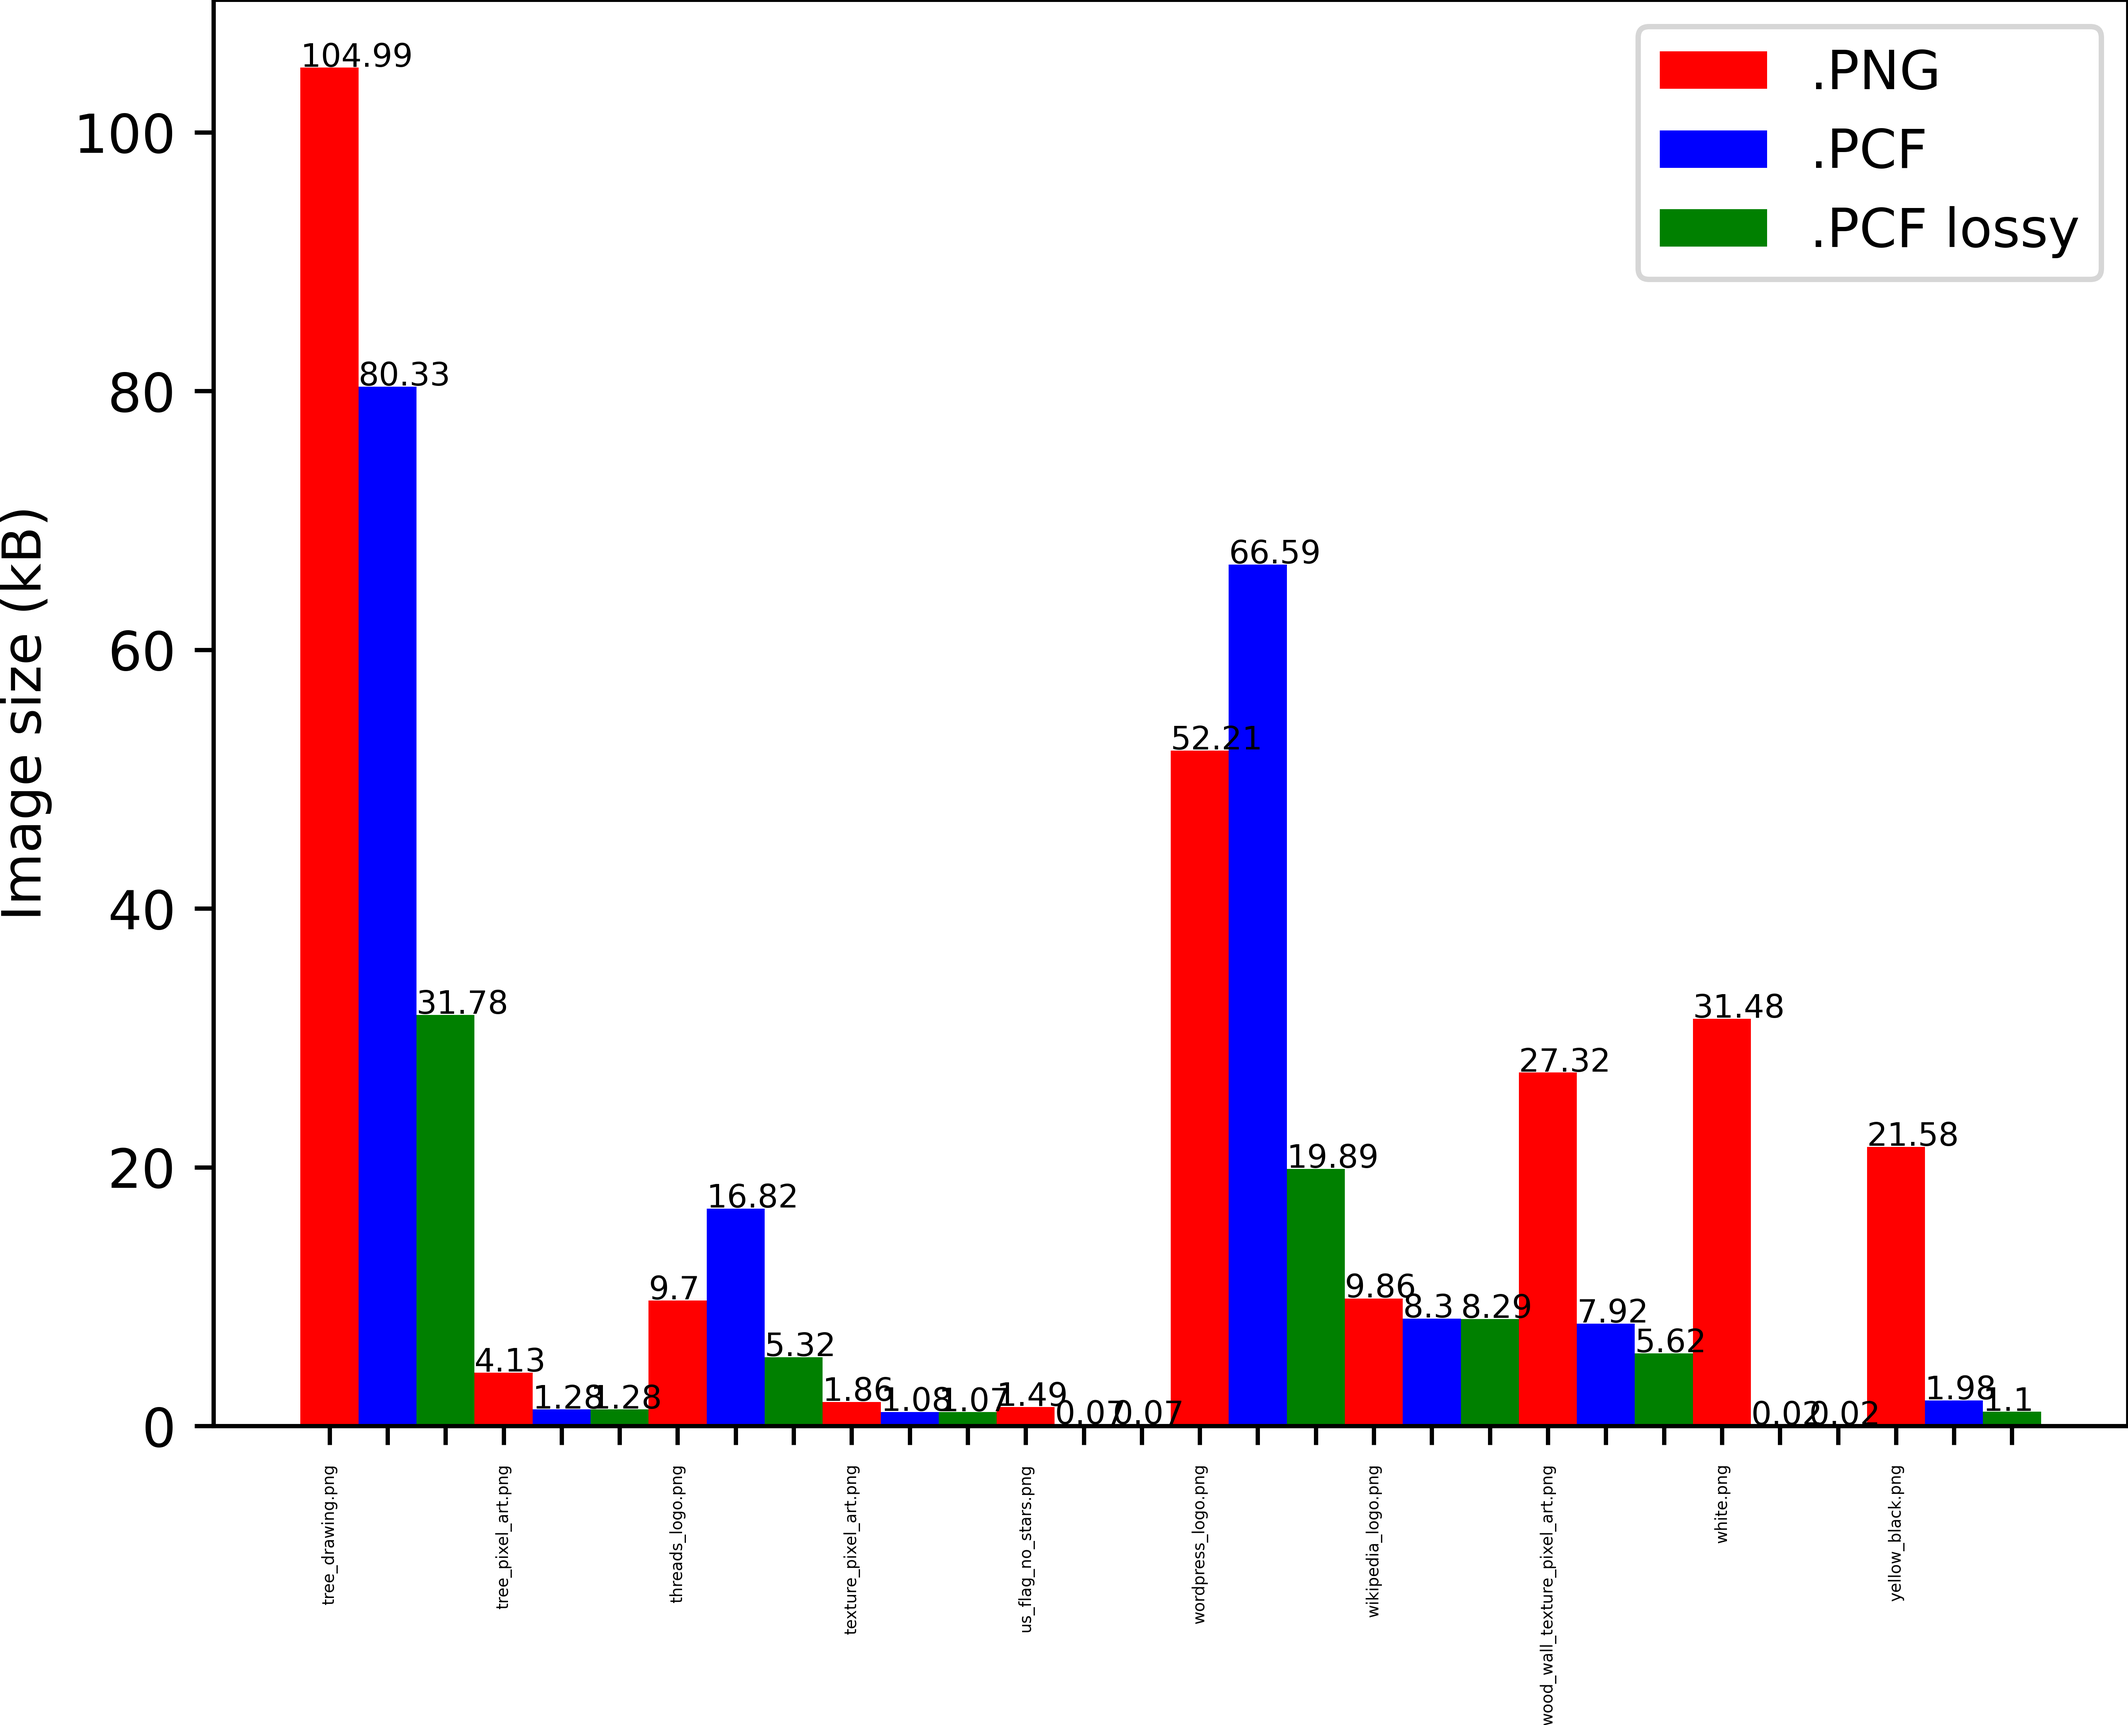
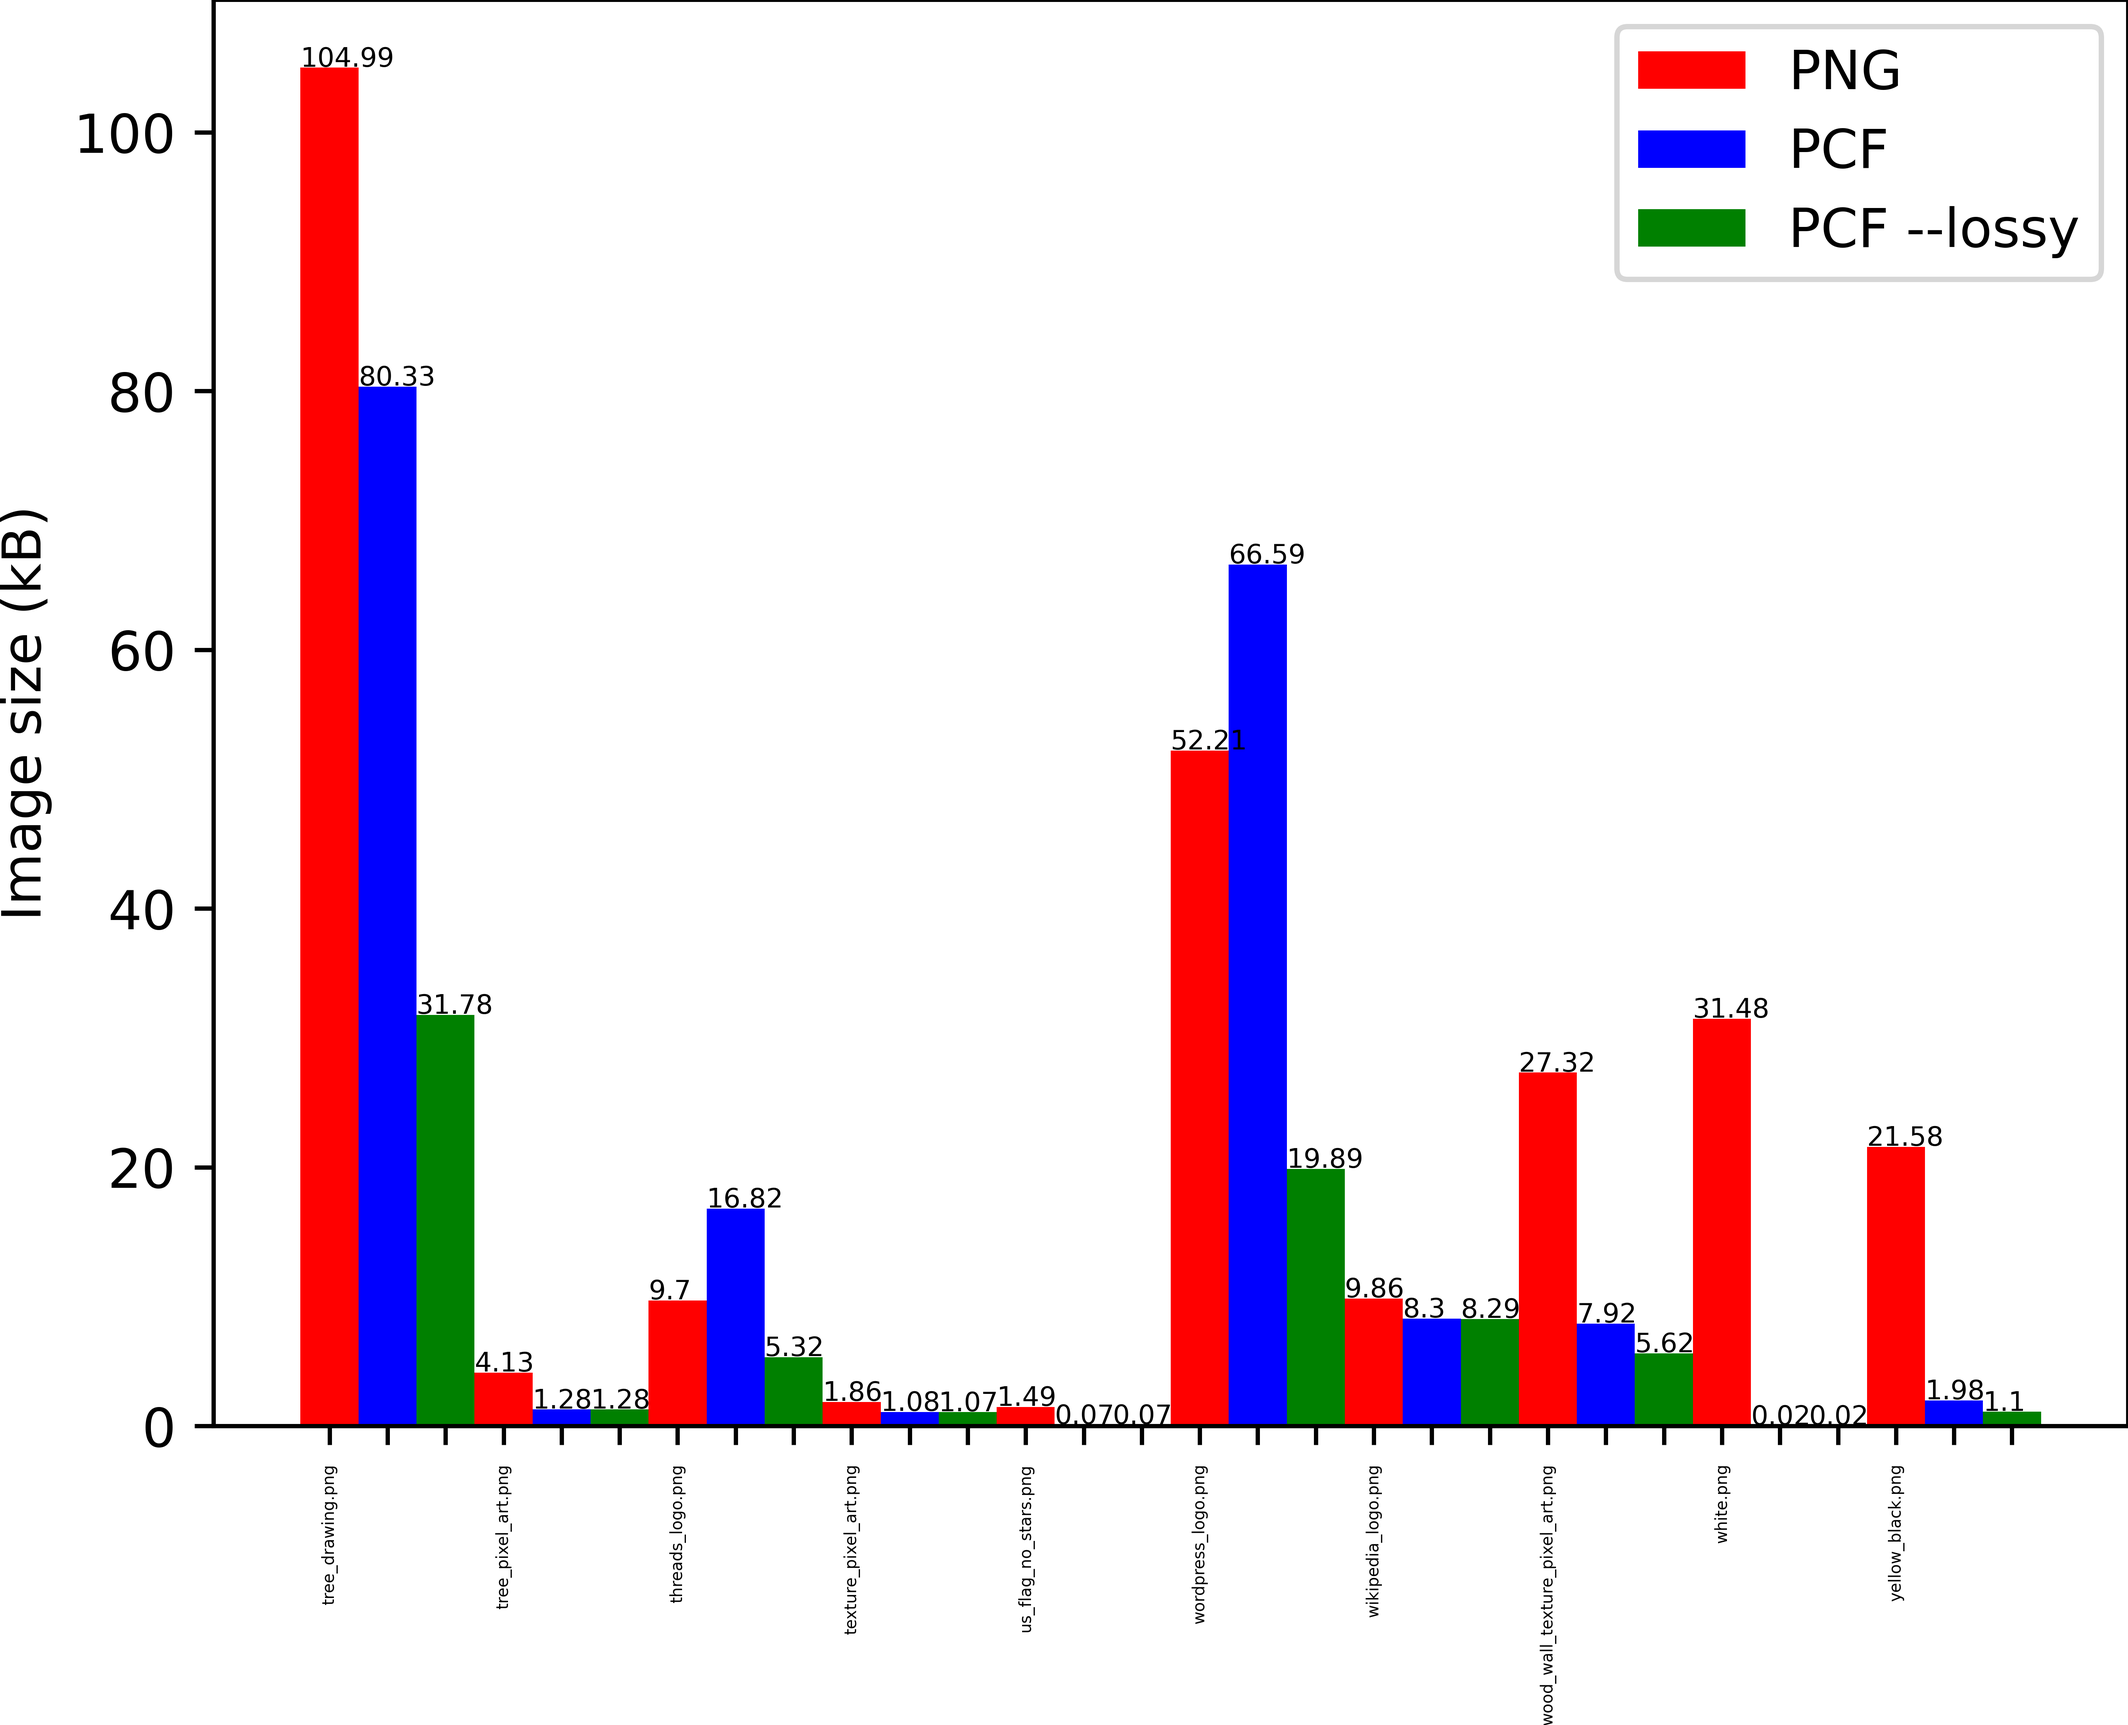
/

diff --git a/src/main.rs b/src/main.rs
@@ -234,7 +234,7 @@ fn convert(path: &str,
     let mut image = open(path).unwrap().into_rgba8();
     if lossy {
         floyd_steinberg_dither(&mut image, base_radius, diagonal_pixels, extra_radius, extra_extra_radius);
-        image.save("out.png").unwrap();
+        image.save("dither-output.png").unwrap();
     }
     let width: u32 = image.width();
     let height: u32 = image.height();
@@ -465,38 +465,37 @@ fn display_menu(left: bool, right: bool,  enter: bool, mode: &mut u8, sel: &mut 
 
 fn main() {
     let args: Vec<String> = env::args().collect();
-    println!("{args:?}");
-    compare(args);
-    // if args.len() == 1 {
-    //     let mut mode:u8 = 0;
-    //     let mut sel:u8 = 0;
-    //     let mut selected_lossy = false;
-    //     let mut selected_file_path = String::new();
-    //     crossterm::terminal::enable_raw_mode().unwrap();
-    //     display_menu(false, false,false, &mut mode, &mut sel, &mut selected_lossy, &mut selected_file_path);
-    //     loop {
-    //         if poll(Duration::from_millis(100)).unwrap() {
-    //             if let Event::Key(event) = read().unwrap() {
-    //                 if event.code == KeyCode::Left {
-    //                     display_menu(true,false,false, &mut mode, &mut sel, &mut selected_lossy, &mut selected_file_path);
-    //                 } else if event.code == KeyCode::Right {
-    //                     display_menu(false,true,false, &mut mode, &mut sel, &mut selected_lossy, &mut selected_file_path);
-    //                 } else if event.code == KeyCode::Enter {
-    //                     display_menu(false,false,true, &mut mode, &mut sel, &mut selected_lossy, &mut selected_file_path);
-    //                 }
-    //                 else if event.code == KeyCode::Esc || event.code == KeyCode::Char('q') {
-    //                     disable_raw_mode().unwrap();
-    //                     return;
-    //                 }
-    //             }
-    //         }
-    //     }
-    // }
-    // if args.contains(&"--decode".to_string()) {
-    //     decode(args[1].clone(), "output.png".to_string(), args.contains(&"--verbose".to_string()));
-    // } else {
-    //     let file_path = args[1].to_string();
-    //     let name = std::path::Path::new(&file_path).file_name().unwrap().to_str().unwrap().split(".").collect::<Vec<&str>>()[0].to_string();
-    //     convert(&args[1], &(name + ".pcf"), args.contains(&"--verbose".to_string()), args.contains(&"--lossy".to_string()), true, false, false,false);
-    // }
+    if args.len() == 1 {
+        let mut mode:u8 = 0;
+        let mut sel:u8 = 0;
+        let mut selected_lossy = false;
+        let mut selected_file_path = String::new();
+        crossterm::terminal::enable_raw_mode().unwrap();
+        display_menu(false, false,false, &mut mode, &mut sel, &mut selected_lossy, &mut selected_file_path);
+        loop {
+            if poll(Duration::from_millis(100)).unwrap() {
+                if let Event::Key(event) = read().unwrap() {
+                    if event.code == KeyCode::Left {
+                        display_menu(true,false,false, &mut mode, &mut sel, &mut selected_lossy, &mut selected_file_path);
+                    } else if event.code == KeyCode::Right {
+                        display_menu(false,true,false, &mut mode, &mut sel, &mut selected_lossy, &mut selected_file_path);
+                    } else if event.code == KeyCode::Enter {
+                        display_menu(false,false,true, &mut mode, &mut sel, &mut selected_lossy, &mut selected_file_path);
+                    }
+                    else if event.code == KeyCode::Esc || event.code == KeyCode::Char('q') {
+                        disable_raw_mode().unwrap();
+                        return;
+                    }
+                }
+            }
+        }
+    } else {
+        if args.contains(&"--decode".to_string()) {
+            decode(args[1].clone(), "output.png".to_string(), args.contains(&"--verbose".to_string()));
+        } else {
+            let file_path = args[1].to_string();
+            let name = std::path::Path::new(&file_path).file_name().unwrap().to_str().unwrap().split(".").collect::<Vec<&str>>()[0].to_string();
+            convert(&args[1], &(name + ".pcf"), args.contains(&"--verbose".to_string()), args.contains(&"--lossy".to_string()), true, false, false,false);
+        }
+    }
 }

diff --git a/plots/plot.py b/plots/plot.py
@@ -42,9 +42,9 @@ for (originals, transformed, compressed_lossy, names) in zip(originals_split, tr
 
     all_bar_pos = range(len(originals) * 3)
 
-    plt.bar(png_bar_pos, png_bar, width=barWidth, color='r', label='.PNG')
-    plt.bar(pcf_bar_pos, pcf_bar, width=barWidth, color='b', label='.PCF')
-    plt.bar(pcf_lossy_bar_pos, pcf_lossy_bar, width=barWidth, color='g', label='.PCF lossy')
+    plt.bar(png_bar_pos, png_bar, width=barWidth, color='r', label='PNG')
+    plt.bar(pcf_bar_pos, pcf_bar, width=barWidth, color='b', label='PCF')
+    plt.bar(pcf_lossy_bar_pos, pcf_lossy_bar, width=barWidth, color='g', label='PCF --lossy')
 
     plt.legend()
 
@@ -65,7 +65,7 @@ for (originals, transformed, compressed_lossy, names) in zip(originals_split, tr
         label.append(round(compressed_lossy[x] / 1000, 2))
 
     for i in range(len(all_bar_pos)):
-        plt.text(x=all_bar_pos[i] + 0.5, y=label[i] + 0.1, s=label[i], size=6)
+        plt.text(x=all_bar_pos[i] + 0.5, y=label[i] + 0.1, s=label[i], size=5)
 
     plt.savefig(f"fig{chunkindex}.png", dpi=1000, pad_inches=0, bbox_inches="tight")
     plt.clf()
